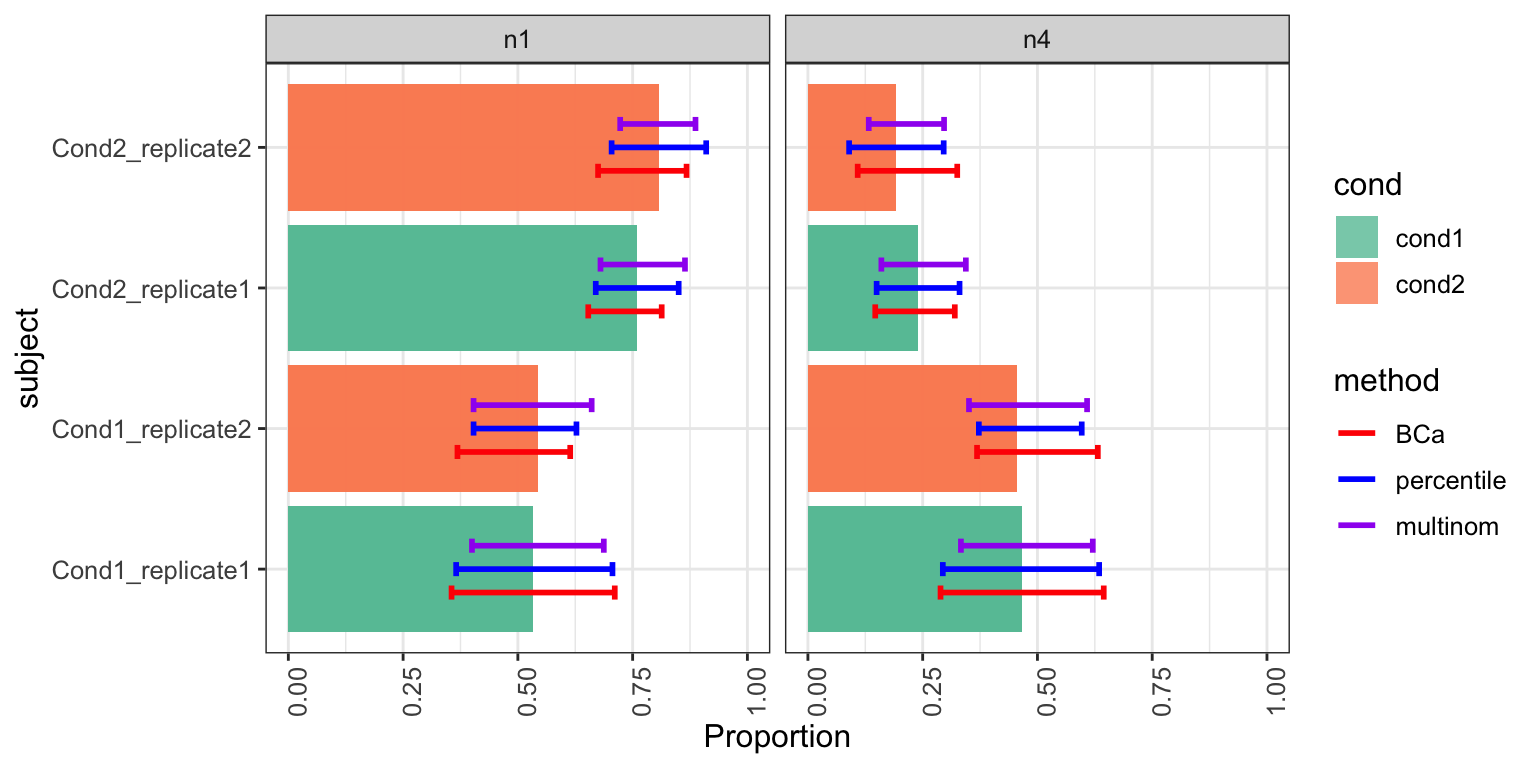
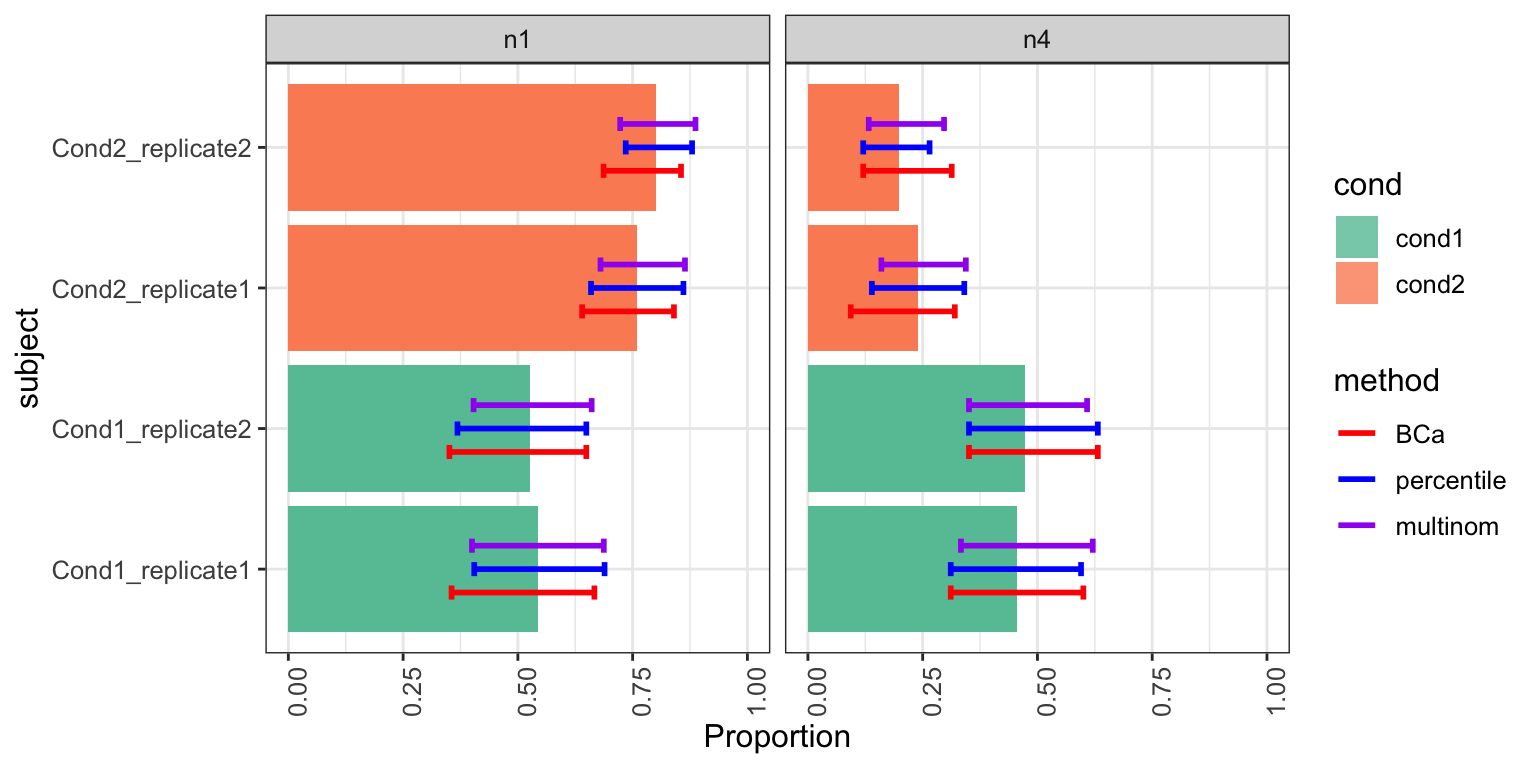
update vignette

diff --git a/docs/articles/vignette.html b/docs/articles/vignette.html
@@ -129,19 +129,35 @@ cond &lt;-<span class="st"> </span>sim<span class="op">$</span>sim_cond
 <div id="visualisation" class="section level2">
 <h2 class="hasAnchor">
 <a href="#visualisation" class="anchor"></a>Visualisation</h2>
-<div class="sourceCode"><pre class="sourceCode r"><code class="sourceCode r"><span class="kw"><a href="../reference/barplotCI.html">barplotCI</a></span>(res_scDC_noClust, <span class="kw"><a href="https://www.rdocumentation.org/packages/base/topics/c">c</a></span>(<span class="st">"cond1"</span>,<span class="st">"cond1"</span>,<span class="st">"cond2"</span>,<span class="st">"cond2"</span>))</code></pre></div>
+<div class="sourceCode"><pre class="sourceCode r"><code class="sourceCode r"><span class="kw"><a href="../reference/barplotCI.html">barplotCI</a></span>(res_scDC_noClust, <span class="kw"><a href="https://www.rdocumentation.org/packages/base/topics/c">c</a></span>(<span class="st">"cond1"</span>,<span class="st">"cond1"</span>,<span class="st">"cond1"</span>,<span class="st">"cond1"</span>,
+                              <span class="st">"cond2"</span>,<span class="st">"cond2"</span>,<span class="st">"cond2"</span>,<span class="st">"cond2"</span>))</code></pre></div>
 <p><img src="vignette_files/figure-html/unnamed-chunk-4-1.png" width="768"></p>
-<div class="sourceCode"><pre class="sourceCode r"><code class="sourceCode r"><span class="kw"><a href="../reference/densityCI.html">densityCI</a></span>(res_scDC_noClust, <span class="kw"><a href="https://www.rdocumentation.org/packages/base/topics/c">c</a></span>(<span class="st">"cond1"</span>,<span class="st">"cond1"</span>,<span class="st">"cond2"</span>,<span class="st">"cond2"</span>))
-<span class="co">#&gt; Picking joint bandwidth of 0.0266</span>
-<span class="co">#&gt; Picking joint bandwidth of 0.0266</span></code></pre></div>
+<div class="sourceCode"><pre class="sourceCode r"><code class="sourceCode r"><span class="kw"><a href="../reference/densityCI.html">densityCI</a></span>(res_scDC_noClust, <span class="kw"><a href="https://www.rdocumentation.org/packages/base/topics/c">c</a></span>(<span class="st">"cond1"</span>,<span class="st">"cond1"</span>,<span class="st">"cond1"</span>,<span class="st">"cond1"</span>,
+                              <span class="st">"cond2"</span>,<span class="st">"cond2"</span>,<span class="st">"cond2"</span>,<span class="st">"cond2"</span>))
+<span class="co">#&gt; Picking joint bandwidth of 0.0252</span>
+<span class="co">#&gt; Picking joint bandwidth of 0.0252</span></code></pre></div>
 <p><img src="vignette_files/figure-html/unnamed-chunk-5-1.png" width="768"></p>
 </div>
 <div id="fitting-glm" class="section level2">
 <h2 class="hasAnchor">
 <a href="#fitting-glm" class="anchor"></a>Fitting GLM</h2>
-<div class="sourceCode"><pre class="sourceCode r"><code class="sourceCode r">res_GLM &lt;-<span class="st"> </span><span class="kw"><a href="../reference/fitGLM.html">fitGLM</a></span>(res_scDC_noClust, <span class="kw"><a href="https://www.rdocumentation.org/packages/base/topics/c">c</a></span>(<span class="st">"cond1"</span>,<span class="st">"cond1"</span>,<span class="st">"cond2"</span>,<span class="st">"cond2"</span>), <span class="dt">pairwise =</span> <span class="ot">FALSE</span>)
+<div class="sourceCode"><pre class="sourceCode r"><code class="sourceCode r">res_GLM &lt;-<span class="st"> </span><span class="kw"><a href="../reference/fitGLM.html">fitGLM</a></span>(res_scDC_noClust, <span class="kw"><a href="https://www.rdocumentation.org/packages/base/topics/c">c</a></span>(<span class="st">"cond1"</span>,<span class="st">"cond1"</span>,<span class="st">"cond1"</span>,<span class="st">"cond1"</span>,
+                                      <span class="st">"cond2"</span>,<span class="st">"cond2"</span>,<span class="st">"cond2"</span>,<span class="st">"cond2"</span>), 
+                  <span class="dt">pairwise =</span> <span class="ot">FALSE</span>)
+<span class="co">#&gt; Warning in checkConv(attr(opt, "derivs"), opt$par, ctrl =</span>
+<span class="co">#&gt; control$checkConv, : Model failed to converge with max|grad| = 0.00110342</span>
+<span class="co">#&gt; (tol = 0.001, component 1)</span>
+<span class="co">#&gt; Warning in checkConv(attr(opt, "derivs"), opt$par, ctrl =</span>
+<span class="co">#&gt; control$checkConv, : Model failed to converge with max|grad| = 0.0153461</span>
+<span class="co">#&gt; (tol = 0.001, component 1)</span>
+<span class="co">#&gt; Warning in checkConv(attr(opt, "derivs"), opt$par, ctrl =</span>
+<span class="co">#&gt; control$checkConv, : Model failed to converge with max|grad| = 0.00144895</span>
+<span class="co">#&gt; (tol = 0.001, component 1)</span>
 <span class="co">#&gt; [1] "fitting GLM... 10"</span>
 <span class="co">#&gt; [1] "fitting GLM... 20"</span>
+<span class="co">#&gt; Warning in checkConv(attr(opt, "derivs"), opt$par, ctrl =</span>
+<span class="co">#&gt; control$checkConv, : Model failed to converge with max|grad| = 0.00354625</span>
+<span class="co">#&gt; (tol = 0.001, component 1)</span>
 <span class="co">#&gt; [1] "fitting GLM... 30"</span>
 <span class="co">#&gt; [1] "fitting GLM... 40"</span>
 <span class="co">#&gt; [1] "fitting GLM... 50"</span></code></pre></div>
@@ -152,35 +168,30 @@ cond &lt;-<span class="st"> </span>sim<span class="op">$</span>sim_cond
 <h4 class="hasAnchor">
 <a href="#fixed-effect" class="anchor"></a>Fixed effect</h4>
 <div class="sourceCode"><pre class="sourceCode r"><code class="sourceCode r"><span class="kw"><a href="https://www.rdocumentation.org/packages/base/topics/summary">summary</a></span>(res_GLM<span class="op">$</span>pool_res_fixed)
-<span class="co">#&gt;                            estimate std.error  statistic        df</span>
-<span class="co">#&gt; (Intercept)              3.41321489 0.1752847 19.4724021 1.0254099</span>
-<span class="co">#&gt; cellTypesn4             -0.74361062 0.2866279 -2.5943411 0.5622490</span>
-<span class="co">#&gt; condcond2                0.63407961 0.2211081  2.8677356 1.0192486</span>
-<span class="co">#&gt; subjectCond1_replicate2 -0.37578934 0.1720231 -2.1845283 1.1998800</span>
-<span class="co">#&gt; subjectCond2_replicate1  0.51082562 0.1885616  2.7090654 1.1998800</span>
-<span class="co">#&gt; cellTypesn4:condcond2   -0.06577109 0.3799817 -0.1730902 0.6001514</span>
+<span class="co">#&gt;                           estimate std.error  statistic        df</span>
+<span class="co">#&gt; (Intercept)              3.1791270 0.2065310 15.3929758 0.8677741</span>
+<span class="co">#&gt; cellTypesn4             -0.1492135 0.3035738 -0.4915229 0.5182430</span>
+<span class="co">#&gt; condcond2                0.9932637 0.2381592  4.1705876 0.9451340</span>
+<span class="co">#&gt; subjectCond1_replicate2  0.2363888 0.1994143  1.1854153 1.1998800</span>
+<span class="co">#&gt; subjectCond2_replicate1 -0.1013525 0.1593158 -0.6361736 1.1998800</span>
+<span class="co">#&gt; cellTypesn4:condcond2   -1.1408530 0.3916524 -2.9129220 0.6070586</span>
 <span class="co">#&gt;                            p.value</span>
-<span class="co">#&gt; (Intercept)             0.01898634</span>
-<span class="co">#&gt; cellTypesn4             0.19938790</span>
-<span class="co">#&gt; condcond2               0.17888310</span>
-<span class="co">#&gt; subjectCond1_replicate2 0.23891968</span>
-<span class="co">#&gt; subjectCond2_replicate1 0.19030662</span>
-<span class="co">#&gt; cellTypesn4:condcond2   0.88712779</span></code></pre></div>
+<span class="co">#&gt; (Intercept)             0.02515396</span>
+<span class="co">#&gt; cellTypesn4             0.69779917</span>
+<span class="co">#&gt; condcond2               0.11748888</span>
+<span class="co">#&gt; subjectCond1_replicate2 0.41965887</span>
+<span class="co">#&gt; subjectCond2_replicate1 0.62431043</span>
+<span class="co">#&gt; cellTypesn4:condcond2   0.17584791</span></code></pre></div>
 </div>
 <div id="random-effect" class="section level4">
 <h4 class="hasAnchor">
 <a href="#random-effect" class="anchor"></a>Random effect</h4>
 <div class="sourceCode"><pre class="sourceCode r"><code class="sourceCode r"><span class="kw"><a href="https://www.rdocumentation.org/packages/base/topics/summary">summary</a></span>(res_GLM<span class="op">$</span>pool_res_random)
-<span class="co">#&gt;                          estimate std.error  statistic        df</span>
-<span class="co">#&gt; (Intercept)            3.68128753 0.1840117 20.0057270 1.7355755</span>
-<span class="co">#&gt; cellTypesn4           -0.74361048 0.2866281 -2.5943388 0.9350745</span>
-<span class="co">#&gt; condcond2              0.18213004 0.2525884  0.7210548 1.7689177</span>
-<span class="co">#&gt; cellTypesn4:condcond2 -0.06576997 0.3799827 -0.1730868 0.9982272</span>
-<span class="co">#&gt;                           p.value</span>
-<span class="co">#&gt; (Intercept)           0.004319686</span>
-<span class="co">#&gt; cellTypesn4           0.137847019</span>
-<span class="co">#&gt; condcond2             0.554117608</span>
-<span class="co">#&gt; cellTypesn4:condcond2 0.880327192</span></code></pre></div>
+<span class="co">#&gt;                         estimate std.error  statistic        df    p.value</span>
+<span class="co">#&gt; (Intercept)            3.3042846 0.1738867 19.0025098 1.2170531 0.01247092</span>
+<span class="co">#&gt; cellTypesn4           -0.1492039 0.3035720 -0.4914944 0.8617986 0.69006751</span>
+<span class="co">#&gt; condcond2              0.8187111 0.1964235  4.1680913 1.3738168 0.09678896</span>
+<span class="co">#&gt; cellTypesn4:condcond2 -1.1408365 0.3916512 -2.9128890 1.0097390 0.15271880</span></code></pre></div>
 </div>
 </div>
 </div>
@@ -194,13 +205,17 @@ cond &lt;-<span class="st"> </span>sim<span class="op">$</span>sim_cond
 <div id="visualisation-1" class="section level2">
 <h2 class="hasAnchor">
 <a href="#visualisation-1" class="anchor"></a>Visualisation</h2>
-<div class="sourceCode"><pre class="sourceCode r"><code class="sourceCode r"><span class="kw"><a href="../reference/barplotCI.html">barplotCI</a></span>(res_scDC_clust, <span class="kw"><a href="https://www.rdocumentation.org/packages/base/topics/c">c</a></span>(<span class="st">"cond1"</span>,<span class="st">"cond1"</span>,<span class="st">"cond2"</span>,<span class="st">"cond2"</span>))
-<span class="kw"><a href="../reference/densityCI.html">densityCI</a></span>(res_scDC_clust, <span class="kw"><a href="https://www.rdocumentation.org/packages/base/topics/c">c</a></span>(<span class="st">"cond1"</span>,<span class="st">"cond1"</span>,<span class="st">"cond2"</span>,<span class="st">"cond2"</span>))</code></pre></div>
+<div class="sourceCode"><pre class="sourceCode r"><code class="sourceCode r"><span class="kw"><a href="../reference/barplotCI.html">barplotCI</a></span>(res_scDC_clust, <span class="kw"><a href="https://www.rdocumentation.org/packages/base/topics/c">c</a></span>(<span class="st">"cond1"</span>,<span class="st">"cond1"</span>,<span class="st">"cond1"</span>,<span class="st">"cond1"</span>,
+                            <span class="st">"cond2"</span>,<span class="st">"cond2"</span>,<span class="st">"cond2"</span>,<span class="st">"cond2"</span>))<span class="er">)</span>
+<span class="kw"><a href="../reference/densityCI.html">densityCI</a></span>(res_scDC_clust, <span class="kw"><a href="https://www.rdocumentation.org/packages/base/topics/c">c</a></span>(<span class="st">"cond1"</span>,<span class="st">"cond1"</span>,<span class="st">"cond1"</span>,<span class="st">"cond1"</span>,
+                            <span class="st">"cond2"</span>,<span class="st">"cond2"</span>,<span class="st">"cond2"</span>,<span class="st">"cond2"</span>))<span class="er">)</span></code></pre></div>
 </div>
 <div id="fitting-glm-1" class="section level2">
 <h2 class="hasAnchor">
 <a href="#fitting-glm-1" class="anchor"></a>Fitting GLM</h2>
-<div class="sourceCode"><pre class="sourceCode r"><code class="sourceCode r">res_GLM &lt;-<span class="st"> </span><span class="kw"><a href="../reference/fitGLM.html">fitGLM</a></span>(res_scDC_noClust, <span class="kw"><a href="https://www.rdocumentation.org/packages/base/topics/c">c</a></span>(<span class="st">"cond1"</span>,<span class="st">"cond1"</span>,<span class="st">"cond2"</span>,<span class="st">"cond2"</span>), <span class="dt">pairwise =</span> <span class="ot">FALSE</span>)</code></pre></div>
+<div class="sourceCode"><pre class="sourceCode r"><code class="sourceCode r">res_GLM &lt;-<span class="st"> </span><span class="kw"><a href="../reference/fitGLM.html">fitGLM</a></span>(res_scDC_noClust,
+                  <span class="kw"><a href="https://www.rdocumentation.org/packages/base/topics/c">c</a></span>(<span class="st">"cond1"</span>,<span class="st">"cond1"</span>,<span class="st">"cond1"</span>,<span class="st">"cond1"</span>,
+                    <span class="st">"cond2"</span>,<span class="st">"cond2"</span>,<span class="st">"cond2"</span>,<span class="st">"cond2"</span>), <span class="dt">pairwise =</span> <span class="ot">FALSE</span>)</code></pre></div>
 <div id="summary-glm-results-1" class="section level3">
 <h3 class="hasAnchor">
 <a href="#summary-glm-results-1" class="anchor"></a>Summary GLM results</h3>
